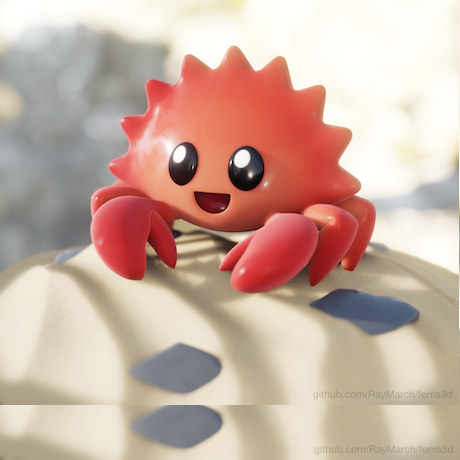
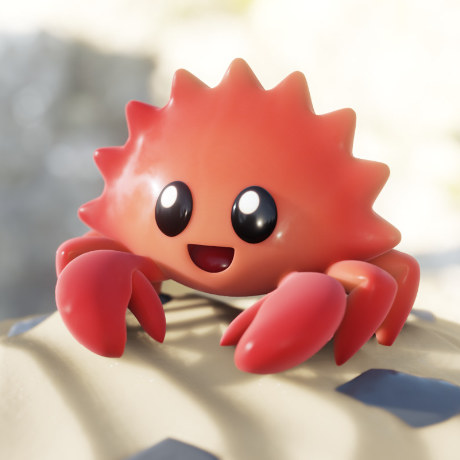
Fix Ferris 3D GitHub Link (#24)
* Fix link

* Replace thumbnail image

* Remove twitter link

diff --git a/site/index.html b/site/index.html
@@ -272,10 +272,10 @@
                         </a>
                     </div>
                     <div>
-                        <a href="//https://github.com/RayMarch/ferris3d">
+                        <a href="//github.com/RayMarch/ferris3d">
                             <img src="more-crabby-things/ferris3d.jpeg" />
+                            <p>Ferris 3D by Ray March, licensed CC Public Domain</p>
                         </a>
-                        <p><a href="//twitter.com/ray__march/status/1523717266730151936">Ferris 3D by Ray March</a>, licensed CC Public Domain</p>
                     </div>
                 </div>
                 <h3 id="other">Other</h3>
